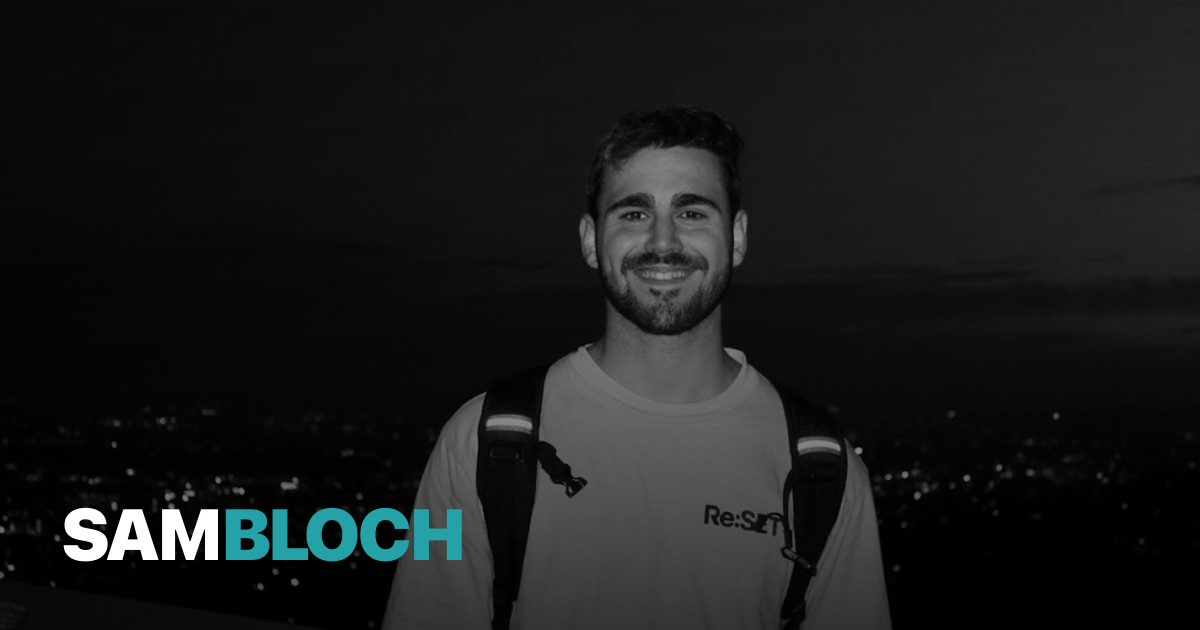
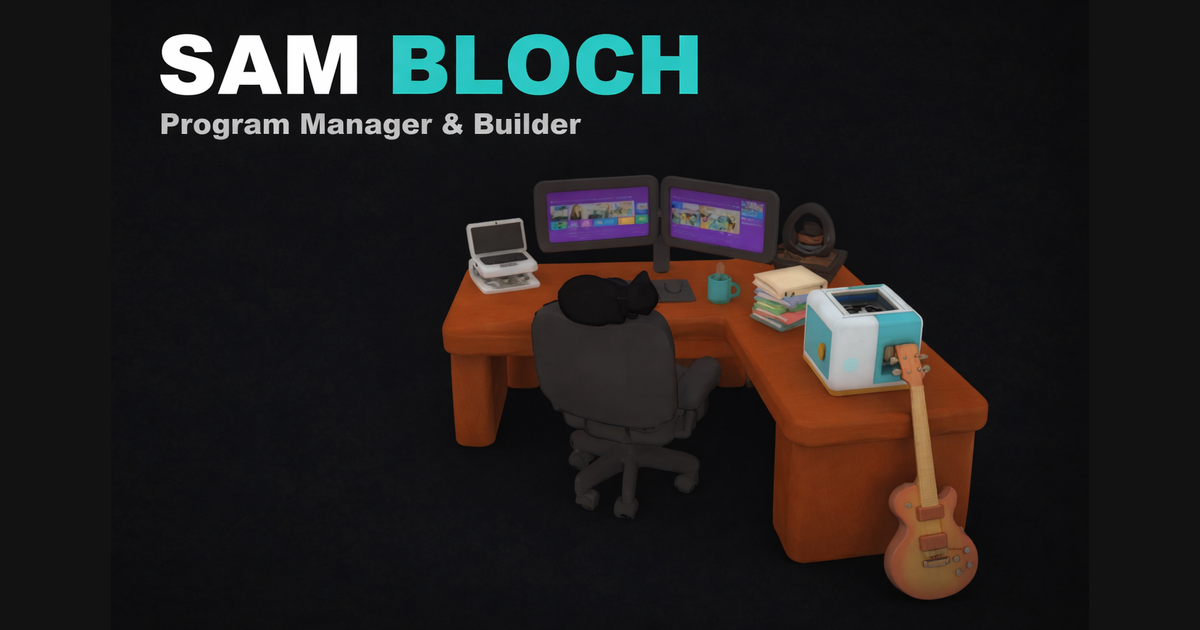
Performance, accessibility, and OG preview updates (#3)
* Switch to React component Analytics/SpeedInsights, add outputDirectory to vercel.json

* Update OG preview image with custom 3D desk scene (1200x630)

---------

diff --git a/index.tsx b/index.tsx
@@ -1,14 +1,10 @@
 import React from 'react';
 import ReactDOM from 'react-dom/client';
 import { RouterProvider } from 'react-router-dom';
-import { inject as injectAnalytics } from '@vercel/analytics';
-import { injectSpeedInsights } from '@vercel/speed-insights';
+import { Analytics } from '@vercel/analytics/react';
+import { SpeedInsights } from '@vercel/speed-insights/react';
 import { router } from './routes';
 import './index.css';
-
-// Vercel Analytics — tracks page views automatically, zero-config on Vercel
-injectAnalytics();
-injectSpeedInsights();
 
 const rootElement = document.getElementById('root');
 if (!rootElement) {
@@ -18,6 +14,8 @@ if (!rootElement) {
 const app = (
   <React.StrictMode>
     <RouterProvider router={router} />
+    <Analytics />
+    <SpeedInsights />
   </React.StrictMode>
 );
 

diff --git a/scripts/generate-og-image.py b/scripts/generate-og-image.py
@@ -1,0 +1,90 @@
+from PIL import Image, ImageDraw, ImageFont
+import os
+
+# OG image standard size
+WIDTH, HEIGHT = 1200, 630
+
+# Load the 3D desk scene
+desk = Image.open("public/case-study/3d-scene.webp").convert("RGBA")
+
+# Create the base canvas with dark background
+canvas = Image.new("RGBA", (WIDTH, HEIGHT), (18, 18, 18, 255))
+
+# Scale desk image to fill the canvas width while maintaining aspect ratio
+desk_ratio = desk.width / desk.height
+canvas_ratio = WIDTH / HEIGHT
+
+# Scale desk to fill the canvas width while maintaining aspect ratio
+if desk_ratio > canvas_ratio:
+    new_height = HEIGHT
+    new_width = int(HEIGHT * desk_ratio)
+else:
+    new_width = WIDTH
+    new_height = int(WIDTH / desk_ratio)
+
+desk_resized = desk.resize((new_width, new_height), Image.LANCZOS)
+
+# Center the desk on canvas
+x_offset = (WIDTH - new_width) // 2
+y_offset = (HEIGHT - new_height) // 2
+canvas.paste(desk_resized, (x_offset, y_offset), desk_resized)
+
+# Add a subtle dark gradient overlay at the top for text readability
+overlay = Image.new("RGBA", (WIDTH, HEIGHT), (0, 0, 0, 0))
+draw_overlay = ImageDraw.Draw(overlay)
+for y in range(200):
+    alpha = int(180 * (1 - y / 200))
+    draw_overlay.line([(0, y), (WIDTH, y)], fill=(18, 18, 18, alpha))
+
+# Add bottom gradient too
+for y in range(150):
+    alpha = int(140 * (1 - y / 150))
+    draw_overlay.line([(0, HEIGHT - 1 - y), (WIDTH, HEIGHT - 1 - y)], fill=(18, 18, 18, alpha))
+
+canvas = Image.alpha_composite(canvas, overlay)
+
+# Draw text
+draw = ImageDraw.Draw(canvas)
+
+# Try to use Montserrat Black (the site font), fall back to system fonts
+font_paths = [
+    "/System/Library/Fonts/Supplemental/Arial Black.ttf",
+    "/System/Library/Fonts/Helvetica.ttc",
+    "/usr/share/fonts/truetype/dejavu/DejaVuSans-Bold.ttf",
+]
+
+font_large = None
+for fp in font_paths:
+    if os.path.exists(fp):
+        try:
+            font_large = ImageFont.truetype(fp, 64)
+            font_sub = ImageFont.truetype(fp, 22)
+            break
+        except:
+            continue
+
+if font_large is None:
+    font_large = ImageFont.load_default()
+    font_sub = ImageFont.load_default()
+
+# "SAM" in white, "BLOCH" in teal - top left
+x_start = 60
+y_start = 50
+
+# Draw "SAM"
+draw.text((x_start, y_start), "SAM", fill=(255, 255, 255, 255), font=font_large)
+sam_bbox = draw.textbbox((x_start, y_start), "SAM", font=font_large)
+sam_width = sam_bbox[2] - sam_bbox[0]
+
+# Draw "BLOCH" in teal right after
+draw.text((x_start + sam_width + 12, y_start), "BLOCH", fill=(36, 162, 167, 255), font=font_large)
+
+# Subtitle under the name
+draw.text((x_start, y_start + 75), "Program Manager & Builder", fill=(156, 163, 175, 255), font=font_sub)
+
+# Convert to RGB for saving as webp/png
+canvas_rgb = canvas.convert("RGB")
+canvas_rgb.save("public/og-image.webp", "WEBP", quality=90)
+canvas_rgb.save("public/og-image.png", "PNG")
+
+print(f"Generated og-image.webp and og-image.png ({WIDTH}x{HEIGHT})")
